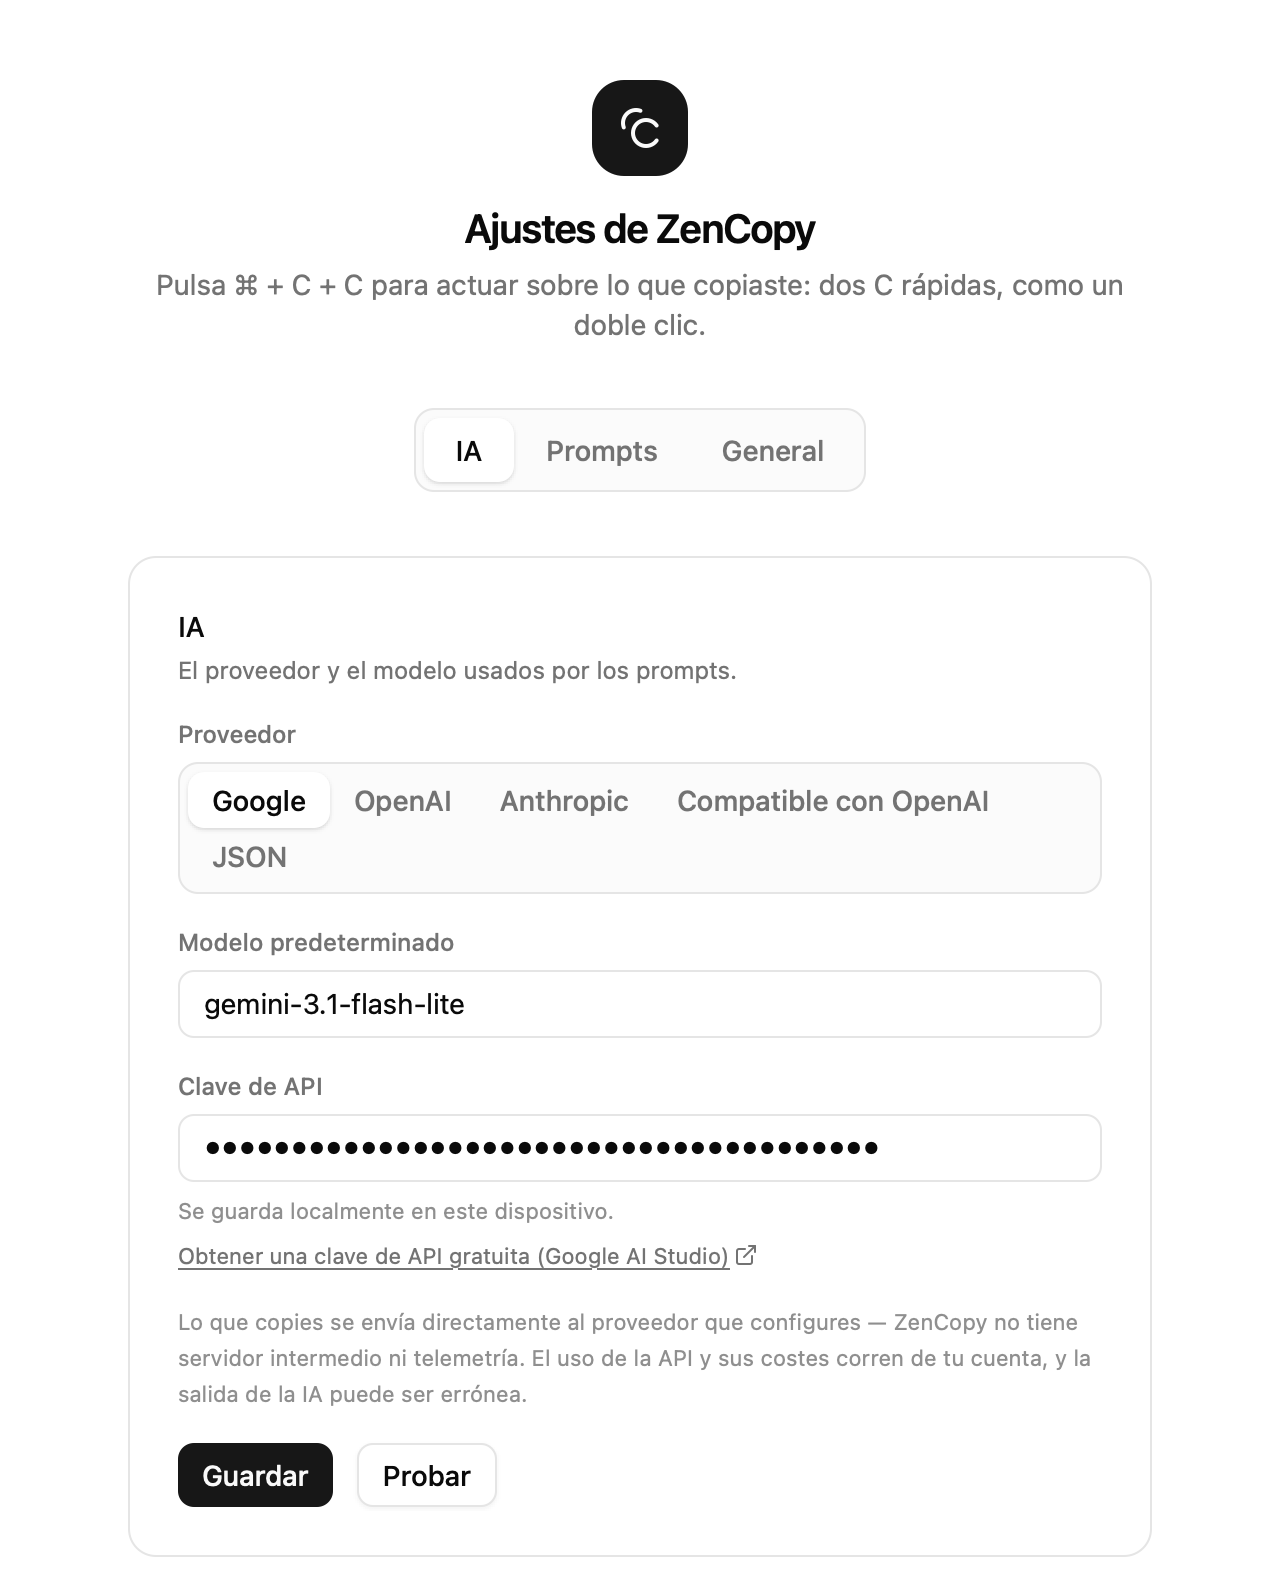
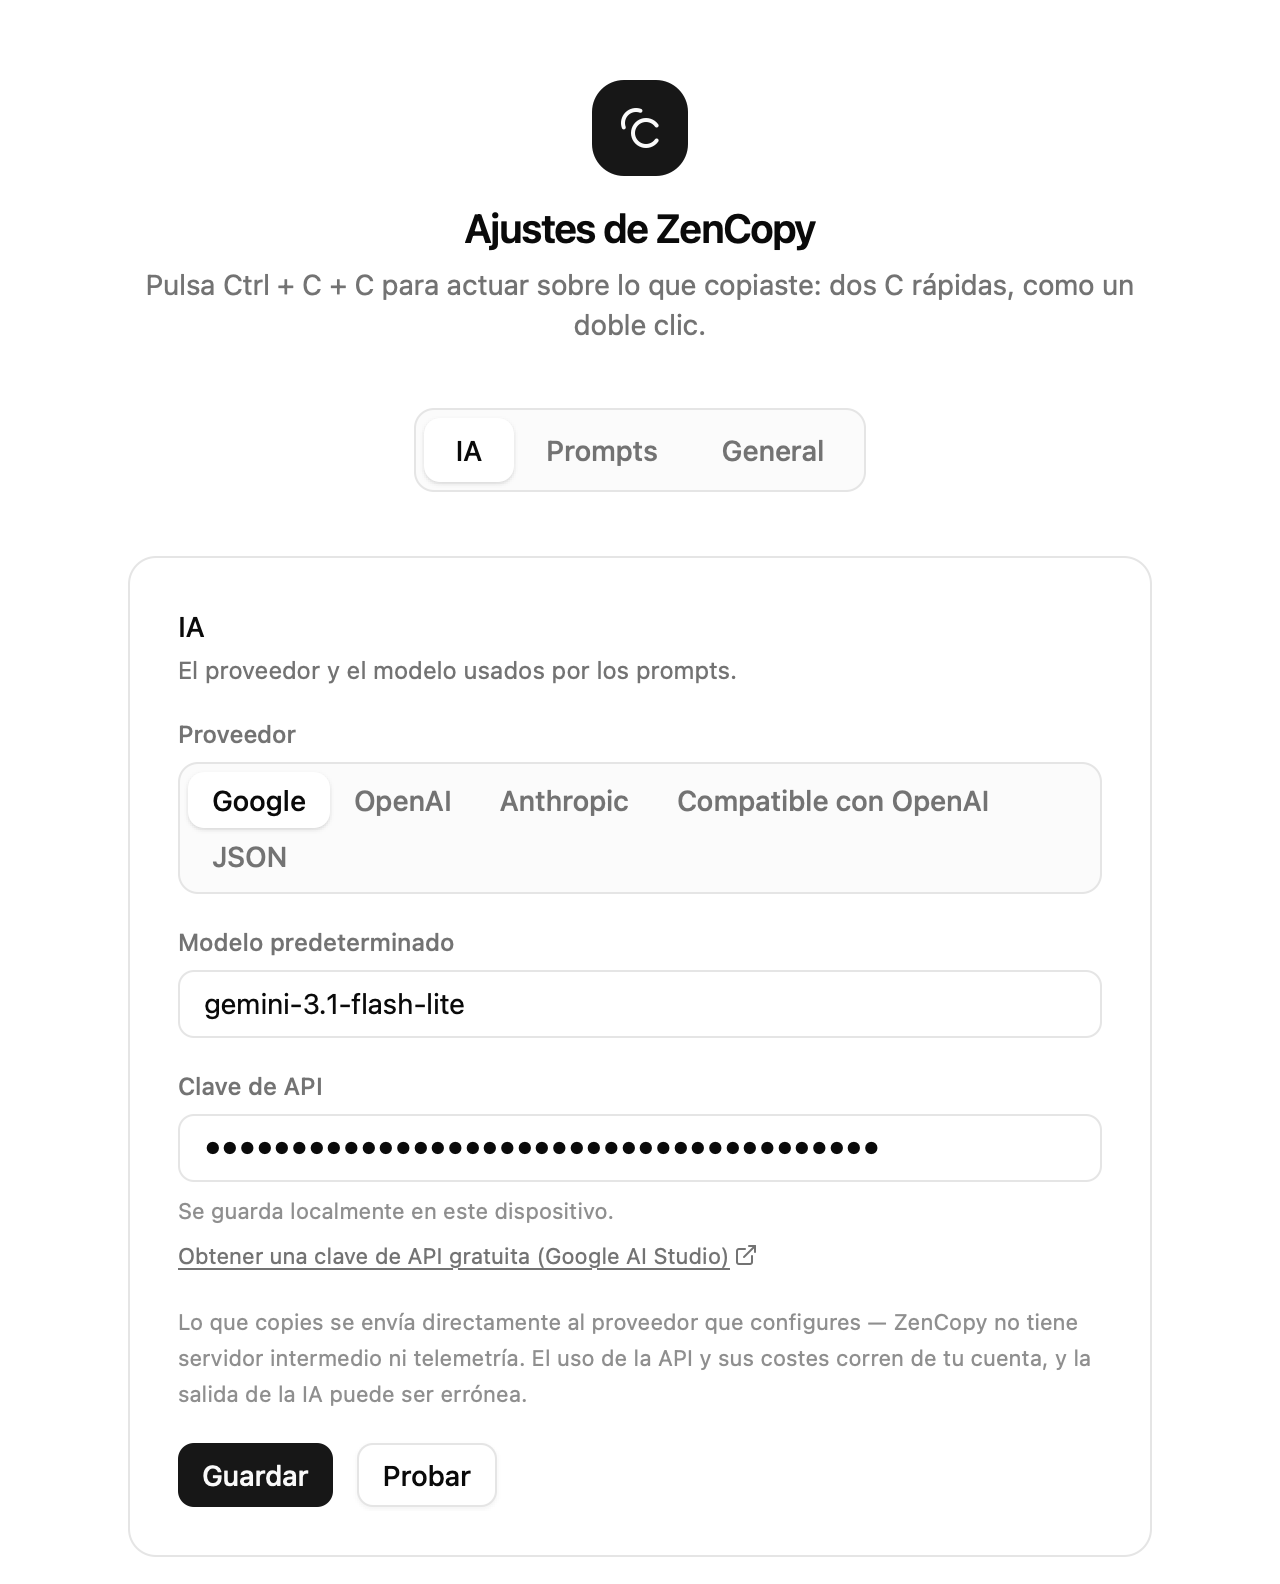
feat(site): the docs screenshots come in the visitor's OS — bun run screenshot renders every scenario as Windows (<scenario>.png, the key chord as Ctrl + C + C) and as macOS (⌘ + C + C) off the user agent the app reads its OS from, a scenario flagged os in the registry (the welcome hero and the sett

Changed region(s): [[0.125, 0.1547, 0.875, 0.1856]]

diff --git a/scripts/screenshot.ts b/scripts/screenshot.ts
@@ -7,14 +7,19 @@
 // <root>/<locale>/screenshots/<scenario>.png (default root: site/public, so
 // the docs can reference /{locale}/screenshots/<scenario>.png) — the
 // settings window's 640×792 logical at 2x unless the scenario overrides,
-// light theme.
+// light theme. Every scenario is rendered as Windows and as macOS (the app
+// spells the key chord off the user agent): a scenario flagged `os` lands
+// twice, the macOS render as <scenario>.mac.png, which the docs swap in on a
+// Mac — even where a locale's two renders happen to coincide (a dialog can
+// cover the line that differs) — and one not flagged must render identically
+// in every locale, or the runner fails naming the shot to flag.
 //
 // Prerequisite once: `bunx playwright install webkit`. A dev server on :1420
 // is reused when already running, started (and stopped) otherwise.
 /* oxlint-disable no-await-in-loop -- deliberately sequential: shots are taken
    one page at a time so the output order is deterministic and WebKit stays
    light. */
-import { mkdirSync } from "node:fs";
+import { mkdirSync, rmSync, writeFileSync } from "node:fs";
 import { join } from "node:path";
 import { webkit } from "playwright";
 import { SCREENSHOT_SCENARIOS } from "../src/lib/screenshot-scenarios.ts";
@@ -45,32 +50,81 @@ for (const name of names) {
 // windows (the popup, About).
 const DEFAULT_VIEWPORT = { width: 640, height: 792 };
 
+/** The two OS renders: what the app reads its OS off (src/lib/platform.ts
+ *  checks the user agent for "mac"), and the file each lands in. */
+const RENDERS = [
+  {
+    os: "windows",
+    suffix: "",
+    userAgent:
+      "Mozilla/5.0 (Windows NT 10.0; Win64; x64) AppleWebKit/605.1.15 (KHTML, like Gecko) Version/17.4 Safari/605.1.15",
+  },
+  {
+    os: "mac",
+    suffix: ".mac",
+    userAgent:
+      "Mozilla/5.0 (Macintosh; Intel Mac OS X 10_15_7) AppleWebKit/605.1.15 (KHTML, like Gecko) Version/17.4 Safari/605.1.15",
+  },
+] as const;
+
 const stopDevServer = await ensureDevServer();
 const browser = await webkit.launch();
 try {
   const scenarios = Object.entries(SCREENSHOT_SCENARIOS).filter(([name]) => names.includes(name));
   for (const [name, scenario] of scenarios) {
-    const context = await browser.newContext({
-      viewport: scenario.viewport ?? DEFAULT_VIEWPORT,
-      deviceScaleFactor: DEVICE_SCALE,
-      colorScheme: "light",
-    });
-    if (scenario.catalog !== undefined) {
-      await seedHarness(context, { catalog: scenario.catalog });
+    // Both renders of every locale first, then the verdicts: the pictures
+    // are compared byte for byte, which the same engine drawing the same
+    // page makes exact (the caret and animations are held still).
+    const shots = new Map<string, Partial<Record<(typeof RENDERS)[number]["os"], Buffer>>>();
+    for (const render of RENDERS) {
+      const context = await browser.newContext({
+        viewport: scenario.viewport ?? DEFAULT_VIEWPORT,
+        deviceScaleFactor: DEVICE_SCALE,
+        colorScheme: "light",
+        userAgent: render.userAgent,
+      });
+      if (scenario.catalog !== undefined) {
+        await seedHarness(context, { catalog: scenario.catalog });
+      }
+      for (const value of locales) {
+        const page = await context.newPage();
+        await page.goto(harnessUrl({ locale: value, ...scenario.params }), {
+          waitUntil: "networkidle",
+        });
+        await page.waitForTimeout(1200); // lazy chunks, fonts, dialog mounts
+        const shot = await page.screenshot({ caret: "hide", animations: "disabled" });
+        shots.set(value, { ...shots.get(value), [render.os]: shot });
+        await page.close();
+      }
+      await context.close();
     }
     for (const value of locales) {
-      const page = await context.newPage();
-      await page.goto(harnessUrl({ locale: value, ...scenario.params }), {
-        waitUntil: "networkidle",
-      });
-      await page.waitForTimeout(1200); // lazy chunks, fonts, dialog mounts
-      const dir = join(outRoot, value.toLowerCase(), "screenshots");
+      const pair = shots.get(value);
+      if (pair?.windows === undefined || pair.mac === undefined) {
+        throw new Error(`${name}: a render is missing for ${value}`);
+      }
+      const differs = !pair.windows.equals(pair.mac);
+      if (differs && scenario.os !== true) {
+        throw new Error(
+          `${value}/screenshots/${name}.png differs between Windows and macOS — mark the scenario \`os: true\` in src/lib/screenshot-scenarios.ts`,
+        );
+      }
+      const folder = value.toLowerCase();
+      const dir = join(outRoot, folder, "screenshots");
       mkdirSync(dir, { recursive: true });
-      await page.screenshot({ path: join(dir, `${name}.png`) });
-      await page.close();
-      console.log(`ok ${value.toLowerCase()}/screenshots/${name}.png`);
+      writeFileSync(join(dir, `${name}.png`), pair.windows);
+      const mac = join(dir, `${name}.mac.png`);
+      if (scenario.os === true) {
+        writeFileSync(mac, pair.mac);
+      } else {
+        rmSync(mac, { force: true });
+      }
+      let note = "";
+      if (scenario.os === true) {
+        note = differs ? " (+ .mac.png)" : " (+ .mac.png, the same picture here)";
+      }
+      console.log(`ok ${folder}/screenshots/${name}.png${note}`);
     }
-    await context.close();
   }
 } finally {
   await browser.close();

diff --git a/src/lib/screenshot-scenarios.ts b/src/lib/screenshot-scenarios.ts
@@ -35,15 +35,22 @@ export const SCREENSHOT_SCENARIOS: Record<
     viewport?: { width: number; height: number };
     /** Seeded on the harness's driver global as the app's catalog. */
     catalog?: unknown;
+    /** The screen carries the key chord (⌘ + C + C on macOS, Ctrl + C + C
+     *  elsewhere — the welcome hero, and the settings window's tagline under
+     *  every tab and dialog): the runner shoots it as both and the docs show
+     *  the visitor's own. A scenario without the flag must render the same
+     *  on both, in every locale — the runner fails otherwise, so a chord
+     *  cannot slip into an unflagged screen unnoticed. */
+    os?: true;
   }
 > = {
-  welcome: { params: { welcome: "1" } },
-  "settings-ai": { params: {}, catalog: SETTINGS_AI_CATALOG },
-  "settings-prompts": { params: { tab: "prompts" } },
-  "settings-general": { params: { tab: "general" } },
-  "new-rule": { params: { tab: "prompts", screenshot: RULE_EDITOR_SCENARIO } },
-  "prompt-editor": { params: { tab: "prompts", screenshot: PROMPT_EDITOR_SCENARIO } },
-  "prompt-import": { params: { tab: "prompts", screenshot: PROMPT_IMPORT_SCENARIO } },
+  welcome: { params: { welcome: "1" }, os: true },
+  "settings-ai": { params: {}, catalog: SETTINGS_AI_CATALOG, os: true },
+  "settings-prompts": { params: { tab: "prompts" }, os: true },
+  "settings-general": { params: { tab: "general" }, os: true },
+  "new-rule": { params: { tab: "prompts", screenshot: RULE_EDITOR_SCENARIO }, os: true },
+  "prompt-editor": { params: { tab: "prompts", screenshot: PROMPT_EDITOR_SCENARIO }, os: true },
+  "prompt-import": { params: { tab: "prompts", screenshot: PROMPT_IMPORT_SCENARIO }, os: true },
   // The other two windows; the about viewport mirrors tauri.conf.json minus
   // the title bar.
   about: { params: { window: "about" }, viewport: { width: 360, height: 412 } },

diff --git a/AGENTS.md b/AGENTS.md
@@ -35,6 +35,7 @@ To exercise the auto-update UI without publishing a release: `VITE_ZENCOPY_FAKE_
 Dev builds only — the flag is ignored in production ([src/lib/updater.ts](src/lib/updater.ts)).
 
 To screenshot the app's screens per locale without launching the app: `bun run screenshot [scenario …] [--out <root>]` (scenarios default to all; each shot lands at `<root>/<locale>/screenshots/<scenario>.png`, default root `site/public`, so docs can reference `/{locale}/screenshots/<scenario>.png` — commit only what a doc actually uses).
+Every scenario is rendered as Windows and as macOS (the app spells the key chord off the user agent): a scenario flagged `os` in the registry lands twice, the macOS render as `<scenario>.mac.png`, and the docs embed it through [site/src/components/Screenshot.astro](site/src/components/Screenshot.astro), which the head script swaps to the `.mac` file on a Mac; a scenario without the flag must render identically on both in every locale, or the runner fails naming the shot to flag (a flagged scenario's two renders may coincide in a locale where a dialog covers the chord — it still lands twice, so the docs' reference holds).
 It renders the React app in headless Playwright WebKit (the webview's own engine; one-time `bunx playwright install webkit`) against a Tauri-IPC mock.
 The parts: [screenshot.html](screenshot.html) (dev-server entry) → [src/screenshot/harness.ts](src/screenshot/harness.ts) (the mock, fed by the real `src-tauri/prompts/*.md` and `rules.json`) → [scripts/screenshot.ts](scripts/screenshot.ts) (the runner); scenarios are declared in [src/lib/screenshot.ts](src/lib/screenshot.ts) and ride the URL (`?screenshot=…`), which components react to via `screenshotScenario()`.
 Dev-only throughout: production builds contain neither the harness nor a live scenario check.
